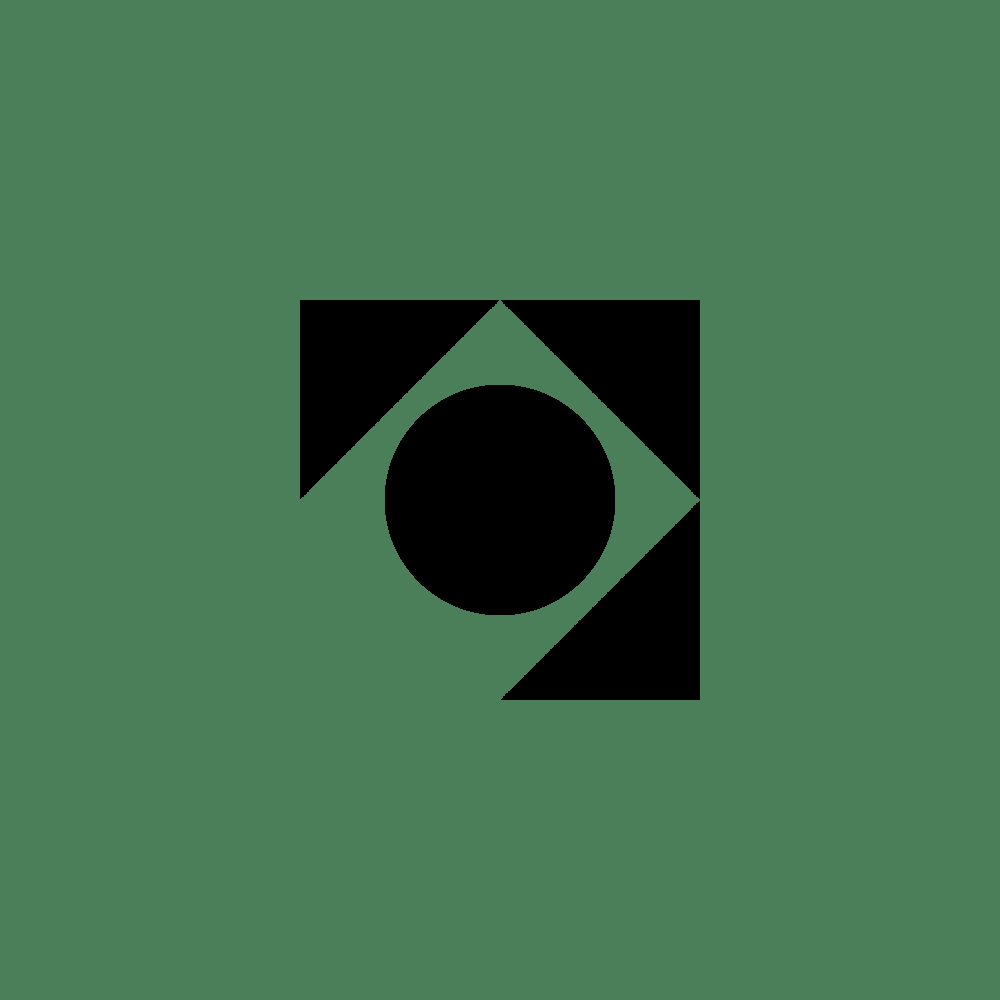
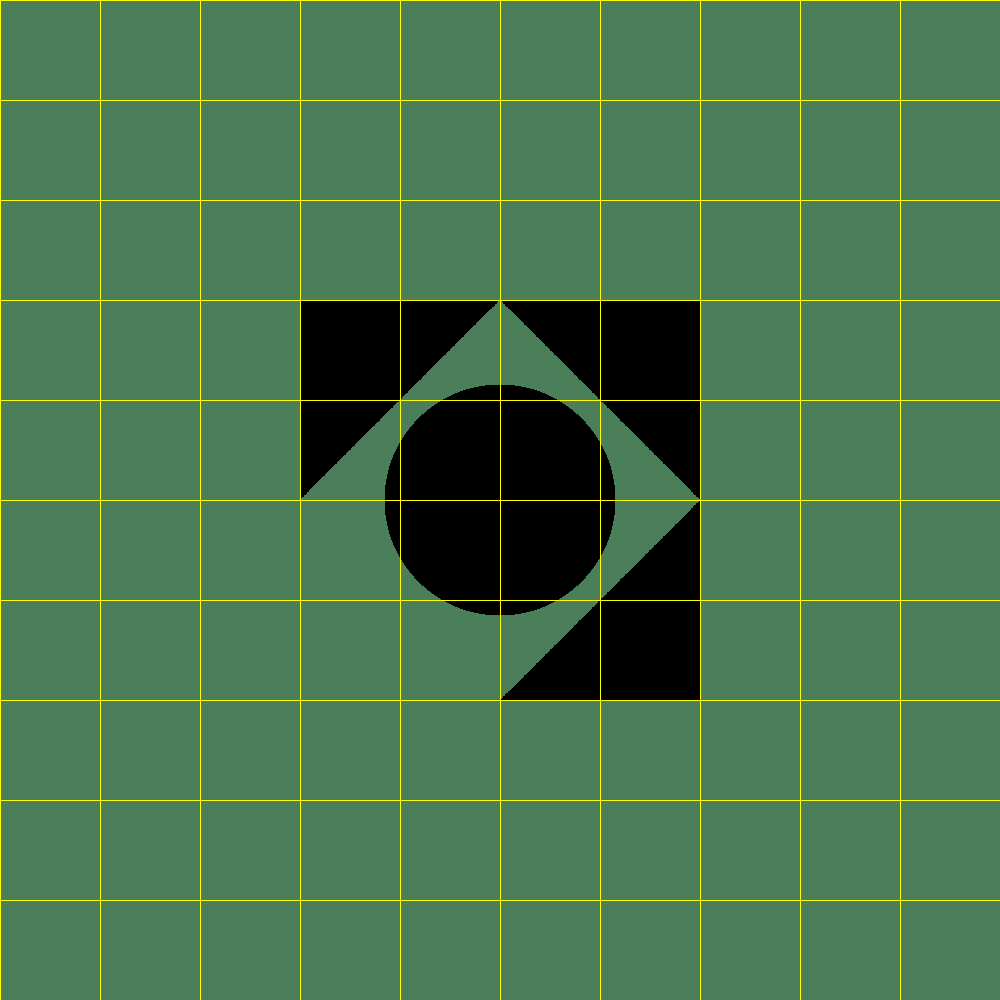
fixing camera

diff --git a/src/renderer/Camera.java b/src/renderer/Camera.java
@@ -181,24 +181,27 @@ public class Camera {
      * @param interval is the width of a square
      * @param color    is the color of the grid
      */
-    void printGrid(int interval, Color color) {
-        if (this.imageWriter == null) {
-            throw new MissingResourceException("imageWriter is null", ImageWriter.class.getName(), null);
-        }
+   void printGrid(int interval, Color color) {
+      if (this.imageWriter == null) {
+          throw new MissingResourceException("imageWriter is null", ImageWriter.class.getName(), null);
+      }
 
-        ImageWriter imageWriter = new ImageWriter("images name", interval, interval);
-        int nX = imageWriter.getNx();
-        int nY = imageWriter.getNy();
-
-        for (int i = 0; i < nX; i++) {
+       int nX = imageWriter.getNx();
+       int nY = imageWriter.getNy();
+        for (int i = 0; i < nX; i+= interval) {
             for (int j = 0; j < nY; j++) {
-                if (i % (interval / nX) == 0 || j % (interval / nY) == 0) {
-                    imageWriter.writePixel(i, j, color);
-                }
+                // _width/interval // _height/interval
+                imageWriter.writePixel(i, j, color);
+
             }
         }
-        //check if it needed
-        //imageWriter.writeToImage();
+        for (int i = 0; i < nX; i++) {
+            for (int j = 0; j < nY; j+= interval) {
+                // _width/interval // _height/interval
+                imageWriter.writePixel(i, j, color);
+
+            }
+        }
     }
 
     /**

diff --git a/unitTests/renderer/RenderTests.java b/unitTests/renderer/RenderTests.java
@@ -1,10 +1,7 @@
 package renderer;
 
 import static java.awt.Color.YELLOW;
-import static java.awt.Color.RED;
-import static java.awt.Color.WHITE;
 
-import org.junit.jupiter.api.Disabled;
 import org.junit.jupiter.api.Test;
 
 import geometries.Sphere;
